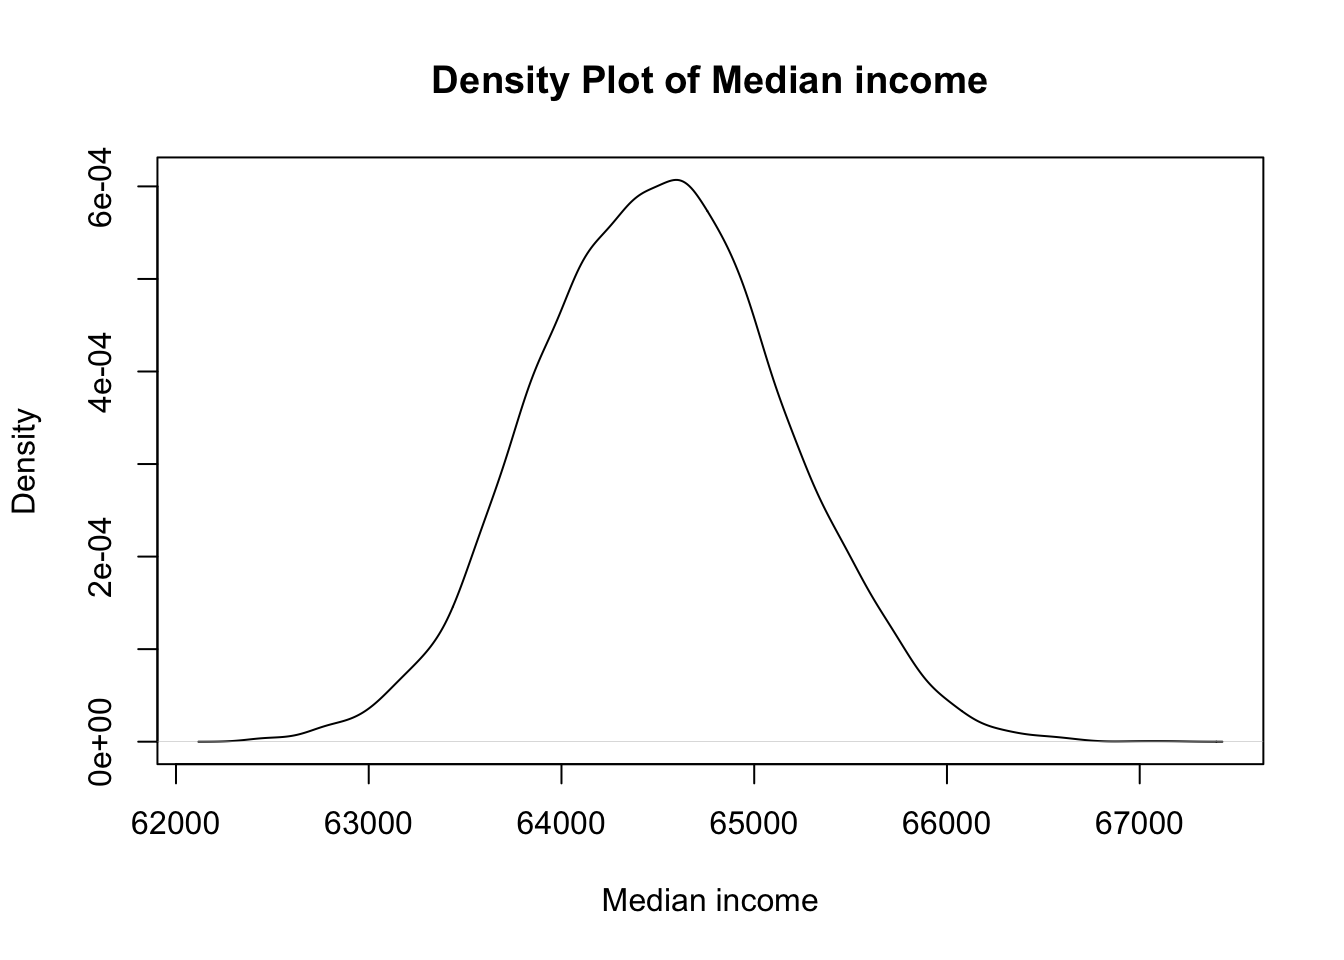
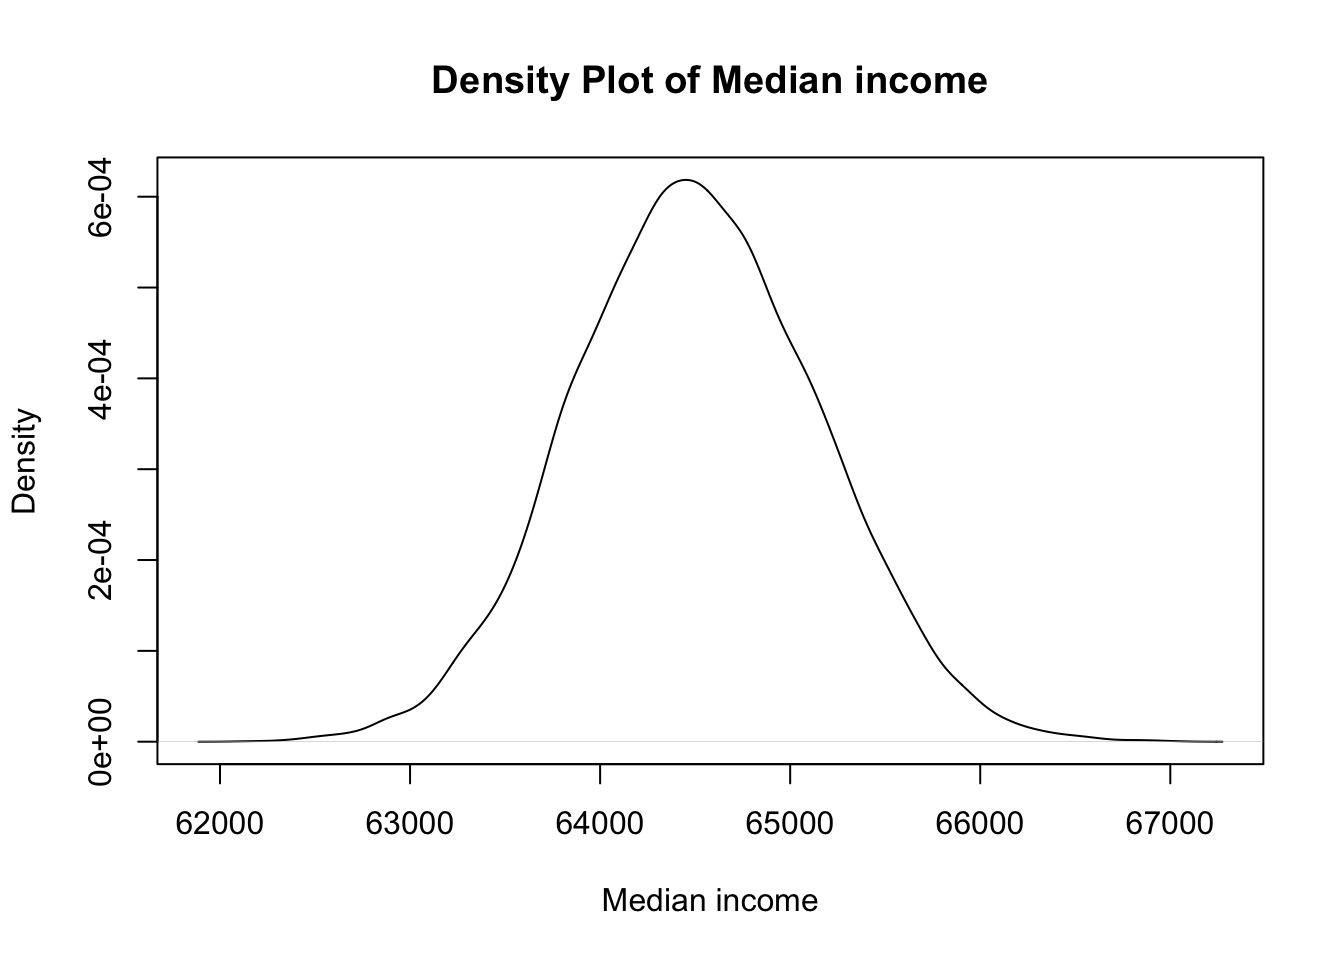
yaml corrected

diff --git a/docs/posts/montecarlo.html b/docs/posts/montecarlo.html
@@ -993,7 +993,7 @@ Income distribution is not normal
 </details>
 <div class="cell-output cell-output-stdout">
 <pre><code>     Min.   1st Qu.    Median      Mean   3rd Qu.      Max. 
-2.179e+05 2.963e+05 3.432e+05 6.997e+05 4.362e+05 1.017e+09 </code></pre>
+   204608    294311    341046    624682    431758 384414148 </code></pre>
 </div>
 <details open="" class="code-fold">
 <summary>Code</summary>
@@ -1001,7 +1001,7 @@ Income distribution is not normal
 </details>
 <div class="cell-output cell-output-stdout">
 <pre><code>   Min. 1st Qu.  Median    Mean 3rd Qu.    Max. 
-  62390   64068   64509   64513   64939   67155 </code></pre>
+  62161   64069   64498   64508   64942   67000 </code></pre>
 </div>
 <details open="" class="code-fold">
 <summary>Code</summary>
@@ -1009,7 +1009,7 @@ Income distribution is not normal
 </details>
 <div class="cell-output cell-output-stdout">
 <pre><code>     Min.   1st Qu.    Median      Mean   3rd Qu.      Max. 
-1.064e+06 3.336e+06 5.640e+06 4.046e+07 1.181e+07 1.017e+11 </code></pre>
+8.751e+05 3.291e+06 5.502e+06 3.319e+07 1.157e+07 3.839e+10 </code></pre>
 </div>
 </div>
 </section>

diff --git a/docs/Revision notes/Diagrams/diagrams.html b/docs/Revision notes/Diagrams/diagrams.html
@@ -1273,7 +1273,7 @@ window.document.addEventListener("DOMContentLoaded", function (event) {
 </div>
   </div>
 </footer>
-<script>var lightboxQuarto = GLightbox({"openEffect":"zoom","loop":false,"descPosition":"bottom","closeEffect":"zoom","selector":".lightbox"});
+<script>var lightboxQuarto = GLightbox({"openEffect":"zoom","closeEffect":"zoom","selector":".lightbox","descPosition":"bottom","loop":false});
 window.onload = () => {
   lightboxQuarto.on('slide_before_load', (data) => {
     const { slideIndex, slideNode, slideConfig, player, trigger } = data;
